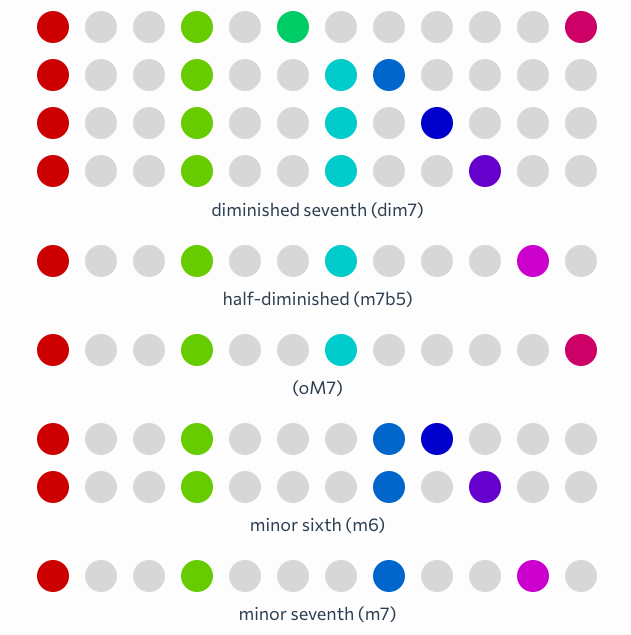
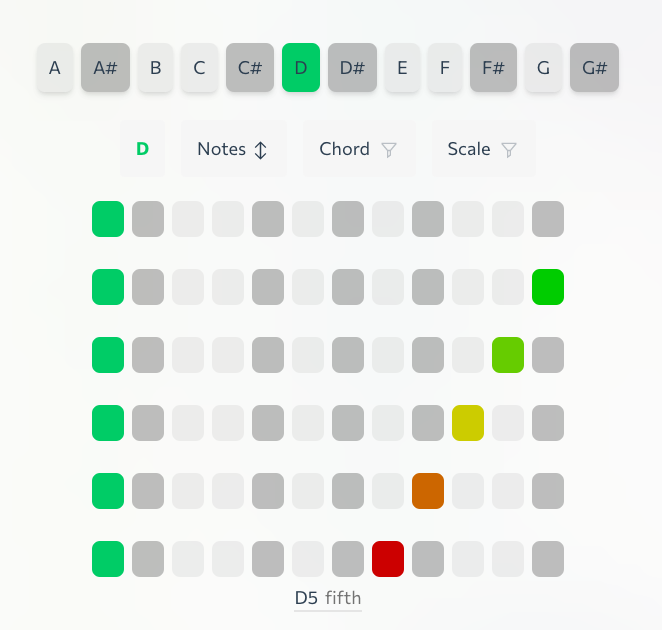
date

diff --git a/.vitepress/components/pcset/browser.vue b/.vitepress/components/pcset/browser.vue
@@ -1,7 +1,15 @@
 <template lang="pug">
 .flex.flex-col.m-auto.items-center.w-full.max-w-65ch
+  .flex.flex-wrap
+    .key(
+      @click="tonic = i"
+      v-for="(bit,i) in '101101011010'"
+      :key="i"
+      :style="{ backgroundColor: i == tonic ? pitchColor(i) : bit == '1' ? 'hsla(0,0%,80%,0.3)' : 'hsla(0,0%,20%,0.3)' }"
+      ) {{ notes[i].name }}
   .control-row
-    .control(@click="control.count = !control.count") Note count
+    .control.font-bold(:style="{ color: pitchColor(tonic) }") {{ notes[tonic].name }}
+    .control(@click="control.count = !control.count") Notes 
       la-arrows-alt-v(:style="{ opacity: control.count ? 1 : 0.3 }")
 
     .control(@click="control.chord = !control.chord") Chord
@@ -11,14 +19,16 @@
       la-filter.ml-2(:style="{ opacity: control.scale ? 1 : 0.3 }")
 
   transition-group(name="list")
-    pcset-row(v-for="(set,n) in sorted",:key="set.chroma", :set="set")
+    pcset-row(v-for="(set,n) in sorted",:key="set.chroma", :set="set", :tonic="tonic")
 </template>
 
 <script setup>
 import { computed } from 'vue'
 import { Pcset, ChordType, ScaleType } from '@tonaljs/tonal'
 import { useStorage } from '@vueuse/core'
+import { pitchColor, notes } from 'chromatone-theory'
 
+const tonic = useStorage('pcset-tonic', 0)
 const search = useStorage('pcset-browser-search', '')
 const control = useStorage('pcset-browser-filter', {
   scale: false,
@@ -28,9 +38,19 @@ const control = useStorage('pcset-browser-filter', {
   chroma: false,
 })
 
-ChordType.add('110000000000', ['m2'], 'minor second');
-ChordType.add('101000000000', ['M2'], 'major second');
-ChordType.add('100100000000', ['m3'], 'major third');
+
+ChordType.add('100000000000', ['.P1/P8'], 'perfect unison/octave');
+ChordType.add('110000000000', ['.m2'], 'minor second');
+ChordType.add('101000000000', ['.M2'], 'major second');
+ChordType.add('100100000000', ['.m3'], 'minor third');
+ChordType.add('100010000000', ['.M3'], 'major third');
+ChordType.add('100001000000', ['.P4'], 'perfect fourth');
+ChordType.add('100000100000', ['.TT'], 'tritone');
+ChordType.add('100000010000', ['.P5'], 'perfect fifth');
+ChordType.add('100000001000', ['.m6'], 'minor sixth');
+ChordType.add('100000000100', ['.M6'], 'major sixth');
+ChordType.add('100000000010', ['.m7'], 'minor seventh');
+ChordType.add('100000000001', ['.M7'], 'major seventh');
 
 const allSets = Pcset.chromas().map(chroma => Pcset.get(chroma));
 
@@ -68,5 +88,14 @@ const sorted = computed(() => {
 
 .control {
   @apply m-2 p-4 bg-light-400 rounded dark:bg-dark-400 cursor-pointer;
+}
+
+.key {
+  @apply transition-all duration-300 p-2 m-1 sm:(p-3 m-1) rounded-lg cursor-pointer shadow-md;
+  flex: 1 1 1em;
+}
+
+.key:hover {
+  @apply shadow-lg;
 }
 </style>

diff --git a/.vitepress/components/pcset/row.vue b/.vitepress/components/pcset/row.vue
@@ -1,25 +1,31 @@
 <template lang="pug">
-.flex.flex-col.items-center.mb-4
+.flex.flex-col.items-center.mb-8
   .flex
     .chroma-key(
       v-for="(bit,i) in set.chroma.split('')"
       :key="i"
-      :style="{ backgroundColor: bit == 1 ? pitchColor(i) : 'hsla(0,0%,50%,0.3)' }"
+      :style="{ backgroundColor: bit == 1 ? pitchColor((i + tonic) % 12) : minor[(i + tonic) % 12] == '1' ? 'hsla(0,0%,80%,0.3)' : 'hsla(0,0%,20%,0.3)' }"
       ) 
-  .flex.flex-wrap.justify-center(v-if="!chord.empty || scale")
-    .p-2(v-if="!chord.empty") 
-      span  {{ chord.name }} 
-      span  ({{ chord.aliases[0] }})
-    .p-2(v-if="scale") @ {{ scale }} scale
+  .flex.flex-wrap.justify-center.border-b-2.pt-2(v-if="!chord.empty || scale")
+    .note  {{ notes[tonic].name }}
+    .chord
+      span {{ chord.aliases[0] }}  &nbsp;
+      span.text-gray-500(class="dark:text-gray-400")  {{ chord.name }} 
+    .scale(v-if="scale") @ {{ scale }} scale
 </template>
 
 <script setup>
 import { defineProps, computed } from 'vue'
 import { ChordType, ScaleType } from '@tonaljs/tonal'
-import { pitchColor } from 'chromatone-theory'
+import { pitchColor, notes } from 'chromatone-theory'
 const props = defineProps({
   set: Object,
+  tonic: {
+    type: Number,
+    default: 0
+  }
 });
+const minor = "101101011010"
 
 const chord = ChordType.get(props.set.chroma)
 const scale = ScaleType.get(props.set.chroma).name
@@ -27,6 +33,6 @@ const scale = ScaleType.get(props.set.chroma).name
 
 <style scoped>
 .chroma-key {
-  @apply p-2 mx-1 sm:(p-4 mx-2) rounded-full;
+  @apply transition-all duration-300 h-2em px-3 flex-1 mx-1px sm:(p-4 mx-1 rounded-lg) rounded-sm;
 }
 </style>

diff --git a/.vitepress/theme/components/state/midi-panel.vue b/.vitepress/theme/components/state/midi-panel.vue
@@ -18,7 +18,9 @@
         @mouseup="stopNote(midi.note)"
         v-if="midi.note?.name"
         :style="{ borderColor: pitchColor(midi.note.pitch, midi.note.octA), color: pitchColor(midi.note.pitch, midi.note.octA) }"
-      ) {{ midi.note.name }}
+      ) 
+        .w-2em {{ midi.note.name.slice(0, -1) }} 
+        .flex {{ midi.note.name.slice(-1) }}
       .play.button(@click="midi.playing = !midi.playing")
         la-play(v-if="!midi.playing")
         la-pause(v-else)
@@ -28,15 +30,23 @@
 
       .button.border(v-for="output in midi.outputs")  
         span {{ output.name }}
-      .button
+      .button(v-if="toChannel")
         span TO CH
-        input.ml-2(type="number", max="16",min="1",length="12", v-model="midi.channel")
+        input.ch.ml-2(type="number", max="16",min="1",length="12", v-model="midi.channel")
       
 </template>
 
 <script setup>
+import { defineProps } from 'vue'
 import { midi, stopAll, playNote, stopNote } from '@use/midi.js'
 import { pitchColor } from 'chromatone-theory'
+
+const props = defineProps({
+  toChannel: {
+    type: Boolean,
+    default: true,
+  }
+});
 </script>
 
 <style scoped>
@@ -45,13 +55,17 @@ import { pitchColor } from 'chromatone-theory'
 }
 
 .layer {
-  @apply shadow-md;
+  @apply shadow-md rounded-md;
   background-color: hsla(0, 0%, 100%, 0.6);
   backdrop-filter: blur(30px);
 }
 
-.dark .midi-panel {
-  background-color: hsla(0, 0%, 00%, 0.3);
+input.ch {
+  @apply pl-2 w-2.5em bg-transparent;
+}
+
+.dark .layer {
+  background-color: hsla(0, 0%, 0%, 0.3);
 }
 
 .button {

diff --git a/.vitepress/use/midi.js b/.vitepress/use/midi.js
@@ -17,7 +17,9 @@ export const midi = reactive({
 
 export function useMidi() {
   onMounted(() => {
-    setupMidi()
+    if (WebMidi.supported) {
+      setupMidi()
+    }
   })
 
   watchEffect(() => {
@@ -49,8 +51,11 @@ function setupMidi() {
     initMidi()
   })
 
+  let interval = setInterval(() => {
+    initMidi()
+  }, 3000)
+
   WebMidi.addListener('connected', (e) => {
-    midi.enabled = true
     initMidi()
   })
 
@@ -60,11 +65,14 @@ function setupMidi() {
 }
 
 function initMidi() {
+  midi.inputs = {}
   WebMidi.inputs.forEach((input) => {
+    midi.enabled = true
     midi.inputs[input.id] = {
       name: input.name,
       manufacturer: input.manufacturer,
     }
+    input.removeListener()
     input.addListener('start', () => {
       midi.playing = true
     })
@@ -79,6 +87,7 @@ function initMidi() {
       channels: 'all',
     })
   })
+  midi.outputs = {}
   WebMidi.outputs.forEach((output) => {
     midi.outputs[output.id] = {
       name: output.name,
@@ -150,7 +159,6 @@ export function playOnce(note) {
   playNote(note)
   setTimeout(() => {
     stopNote(note)
-    console.log('st')
   }, 300)
 }
 

diff --git a/.vitepress/components/midi/roll.vue b/.vitepress/components/midi/roll.vue
@@ -1,0 +1,36 @@
+<template lang="pug">
+.flex.flex-col.items-center
+  state-midi-panel
+  .flex
+    p ROll {{ score.startTime }} - {{ score.endTime }}
+  svg(
+  version="1.1",
+  baseProfile="full",
+  :viewBox="`0 0 300 100`",
+  xmlns="http://www.w3.org/2000/svg",
+  )
+
+</template>
+
+<script setup>
+import { defineProps, reactive, watch } from 'vue'
+import { midi } from '@use/midi.js'
+
+const score = reactive({
+  channels: {},
+  startTime: Date.now(),
+  endTime: Date.now(),
+})
+
+watch(() => midi.playing, playing => {
+  if (playing) {
+    score.startTime = midi.note?.timestamp || Date.now()
+  } else {
+    score.endTime = midi.note?.timestamp || Date.now()
+  }
+});
+
+</script>
+
+<style scoped>
+</style>

diff --git a/.vitepress/config/head.js b/.vitepress/config/head.js
@@ -4,7 +4,14 @@ const head = [
   ['meta', { name: 'author', content: metaData?.author }],
   ['meta', { name: 'keywords', content: metaData?.tags }],
   ['link', { rel: 'icon', type: 'image/svg+xml', href: metaData.icon }],
-
+  [
+    'meta',
+    {
+      name: 'apple-mobile-web-app-status-bar-style',
+      content: 'white-translucent',
+    },
+  ],
+  ['meta', { name: 'apple-mobile-web-app-capable', content: 'yes' }],
   ['meta', { name: 'HandheldFriendly', content: 'True' }],
   ['meta', { name: 'MobileOptimized', content: '320' }],
   ['meta', { name: 'theme-color', content: '#0ea5e9' }],

diff --git a/.vitepress/theme/components/row/list.vue b/.vitepress/theme/components/row/list.vue
@@ -1,25 +1,19 @@
 <template lang="pug">
 .list-blocks
   row-block(
-    v-for="(area,i) in sorted", 
+    v-for="(area,i) in rows", 
     :key="area.title", 
     :item="area", 
     :i="i",
-    :total="sorted.length"
+    :total="rows.length"
     )  
 </template>
 
 <script setup>
 import { computed, defineProps, reactive } from "vue";
-import { sortList } from '@theme/composables/list.js'
 const props = defineProps({
   rows: Object,
 });
-
-const sorted = computed(() => {
-  return sortList(props.rows)
-})
-
 
 </script>
 

diff --git a/.vitepress/theme/composables/colors.js b/.vitepress/theme/composables/colors.js
@@ -5,9 +5,9 @@ import lchPlugin from 'colord/plugins/lch'
 extend([lchPlugin])
 
 export function lchToHsl(n, total, a, s) {
-  return colord(
-    `lch(70% ${s ? s : '40'} ${n * (360 / total)} / ${a ? a : '0.5'}`,
-  ).toHslString()
+  let lch = `lch(70% ${s ? s : '40'} ${n * (360 / total)} / ${a ? a : '0.5'})`
+  let hsl = colord(lch).toHslString()
+  return hsl
 }
 
 export function levelColor(

diff --git a/.vitepress/components/midi/monitor.vue b/.vitepress/components/midi/monitor.vue
@@ -1,6 +1,6 @@
 <template lang="pug">
 .flex.flex-col
-  state-midi-panel
+  state-midi-panel(:toChannel="false")
   .flex.mt-4
     .flex.flex-col.flex-1.text-center(v-for="ch in midi.channels", :key="ch.num")
       .header {{ ch.num }}

diff --git a/vite.config.ts b/vite.config.ts
@@ -5,7 +5,6 @@ import WindiCSS from 'vite-plugin-windicss'
 import { getAliases } from 'vite-aliases'
 
 
-
 export default defineConfig({
   resolve: {
 		alias: getAliases({

diff --git a/README.md b/README.md
@@ -1,6 +1,6 @@
 The research center for the science based visual music language.
 
-## Learn
+## Research
 
 Cards and short overviews on physics and phisiology of vision and hearing.
 
@@ -8,22 +8,15 @@ Cards and short overviews on physics and phisiology of vision and hearing.
 
 Webapps to perform independent researches of sound and color.
 
-## Memorize
 
-Posters and memos to use for better memorization of fundamental music concepts.
+## Shop
 
-## Practice
+Posters and memos to use for better memorization of fundamental music concepts. Stickers for musical instruments to physically map notes and pitch classes with corresponding colors.
 
-Stickers for musical instruments to physically map notes and pitch classes with corresponding colors.
+## Support
 
-## Express
-
-Musical and visual projects and performers, who implement Chromatone system in practice.
-
-## Contribute
-
-Repositories for the open source code base for the system. Mainly frontend web applications, but may include designs and even this website repo itself.
+Musical and visual projects and performers, who implement Chromatone system in practice. Repositories for the open source code base for the system. Mainly frontend web applications, but may include designs and even this website repo itself.
 
 ## Contact
 
-Contact the author and partners of the system.
+Contact the author and the headquarter of the project.

diff --git a/support/promote/index.md b/support/promote/index.md
@@ -1,0 +1,19 @@
+---
+title: Promote
+subtitle: You can use Chromatone to express your ideas or to better understand others. Sharing your media products may help people find the colorful language too.
+tags: support
+---
+
+You can share your creations with the world! Or you can bring us in to make lectures, workshops or performances at your places. We're open to any kind of collaboration!
+
+## NAMM2019 @ Moscow
+
+Brief overview of the idea behind Chromatone. And a nice op-z + op-z jam.
+
+> <iframe  width="100%" height="315" src="https://www.youtube.com/embed/3_815sW-ZKY" title="YouTube video player" frameborder="0" allow="accelerometer; autoplay; clipboard-write; encrypted-media; gyroscope; picture-in-picture" allowfullscreen></iframe>
+
+## Colab 2020 @ Moscow
+
+A long lecture about all the research being put onto the system.
+
+> <iframe  width="100%" height="315" src="https://www.youtube.com/embed/wChhiBwOkY8" title="YouTube video player" frameborder="0" allow="accelerometer; autoplay; clipboard-write; encrypted-media; gyroscope; picture-in-picture" allowfullscreen></iframe>
